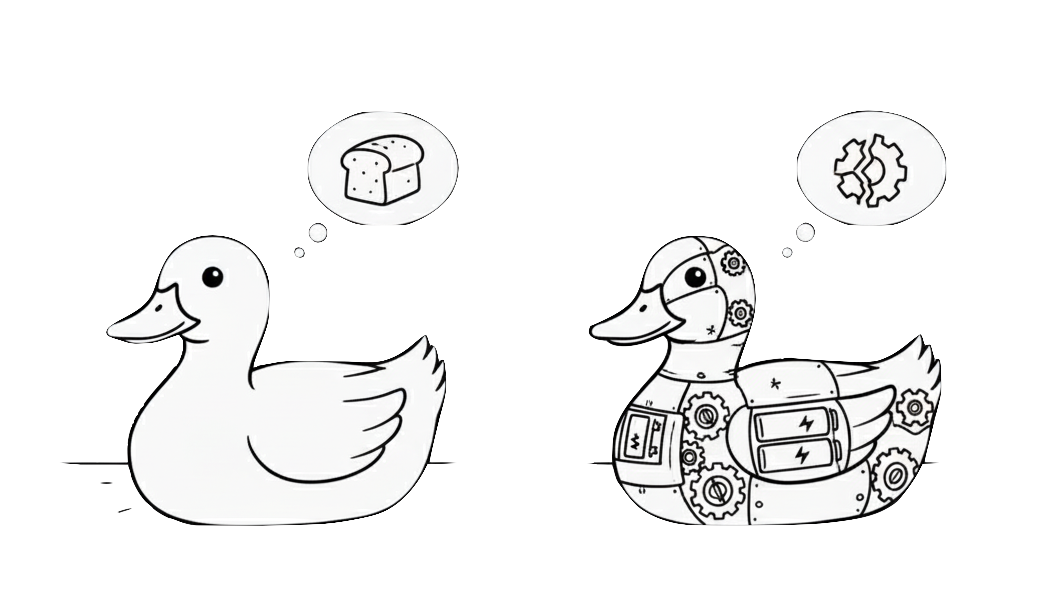
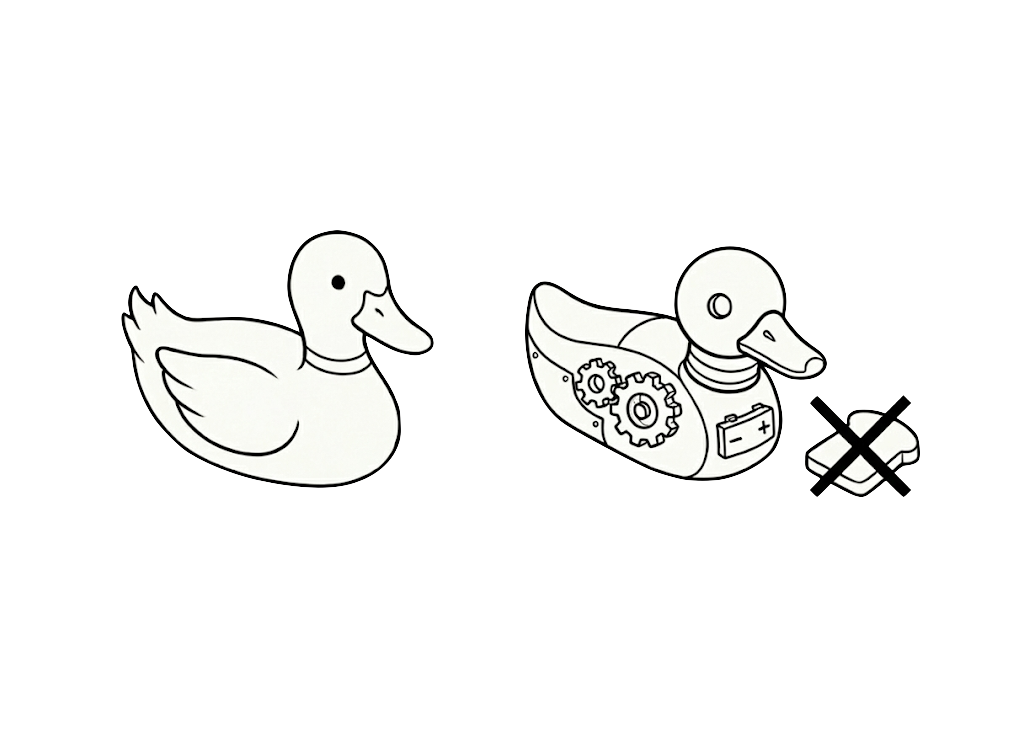
refactor: Replace mechanical-duck-analogy diagram

diff --git a/_posts/2026-02-10-solid-principle.md b/_posts/2026-02-10-solid-principle.md
@@ -2,7 +2,7 @@
 layout: post
 title: "SOLID Principle Brochure"
 author: boyu
-date: 2026-02-10 14:30:00 +0800
+date: 2026-02-10 12:10:00 +0800
 categories: [ Tech, Design ]
 tags: [ tech, solid, principle, design ]
 description: "SOLID principle helps us write better code."
